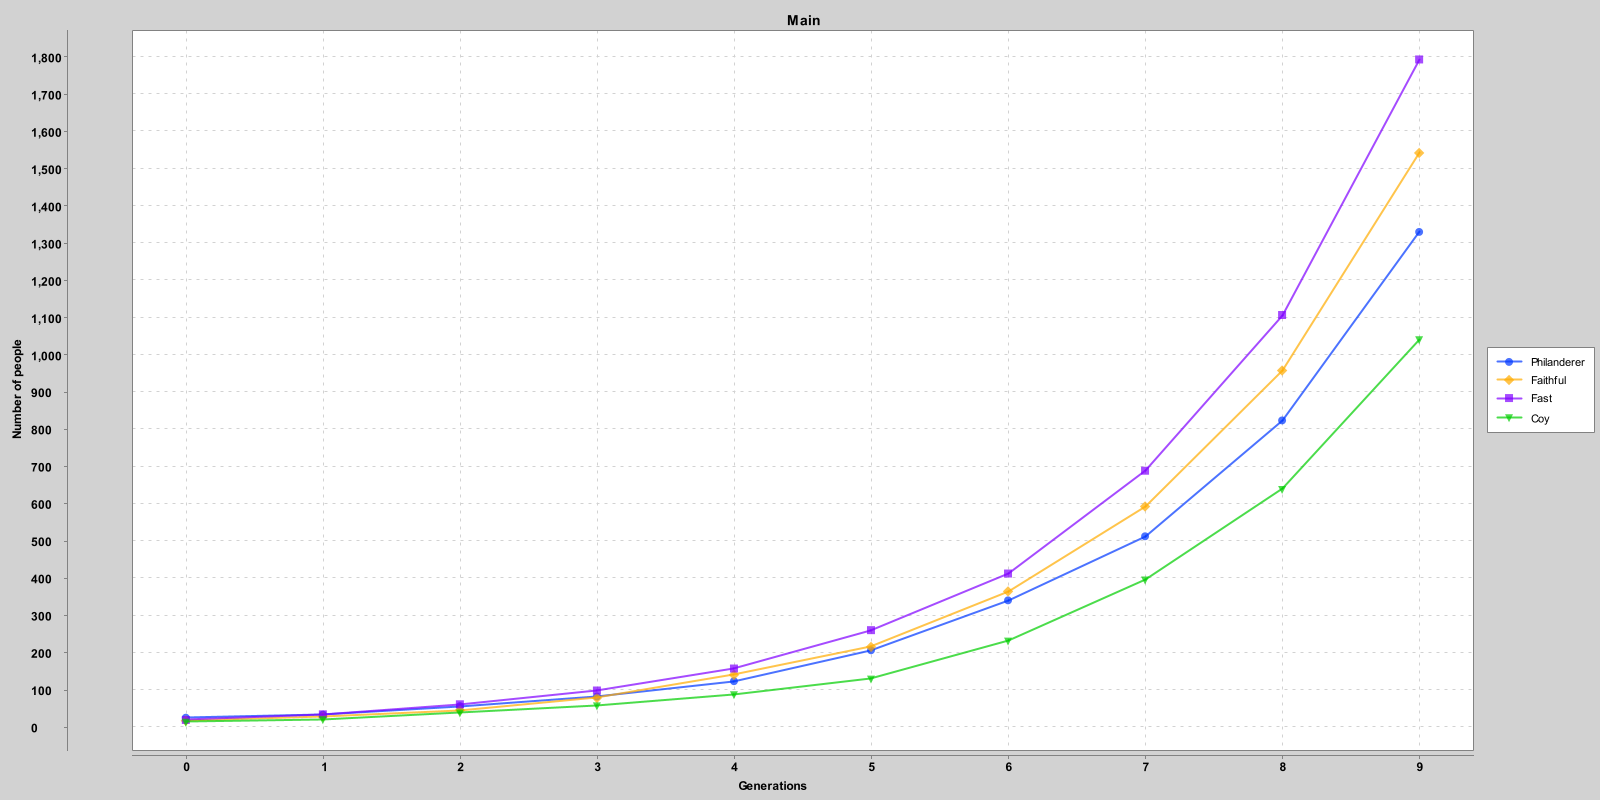
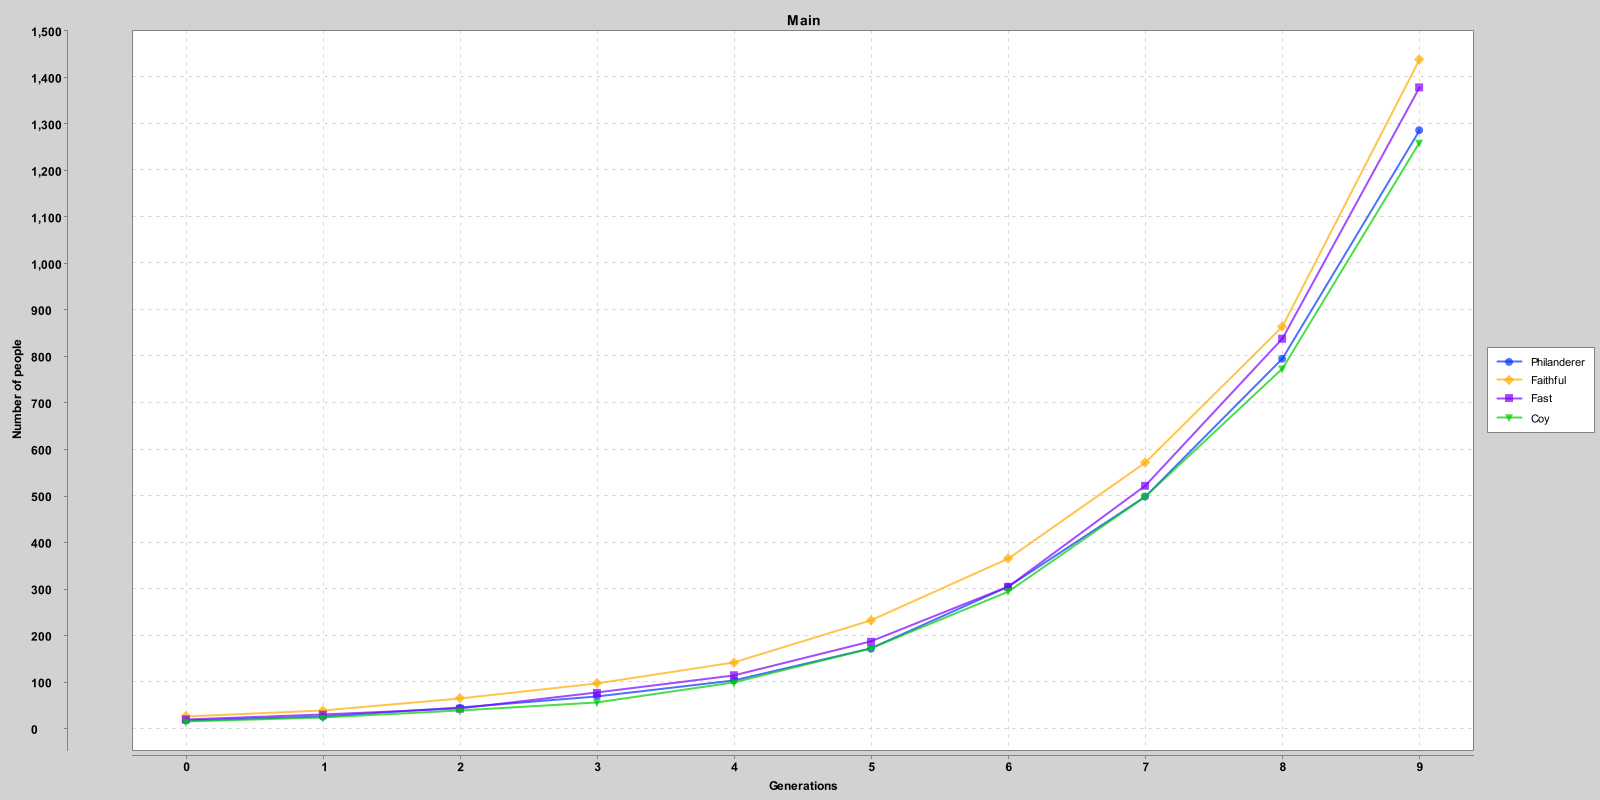
Aggiunta lista di maschi e femmine per futuro mating system

diff --git a/src/Population.java b/src/Population.java
@@ -7,15 +7,17 @@ public class Population {
     private boolean status; // attivo/disattivo
     public static volatile int[] n_individuals = new int[4];
     private volatile List<Individual> individuals; // lista di tutte le persone
+    private volatile List<Individual> Male_list;
+    private volatile List<Individual> Female_list;
     private double resources; // pizza pasta maccaroni
     public int iterazione = 0; // # generazione
     protected Settings settings; // impostazioni
     protected double initial_point;
 
     public void mating() throws InterruptedException {
-    Random radmon = new Random();
+    Random random = new Random();
         for (int i = 0; i < individuals.size()/2; i++) {
-            individuals.get(i).give_birth(individuals.get(radmon.nextInt(individuals.size()/2, individuals.size())),3,this);
+            individuals.get(i).give_birth(individuals.get(random.nextInt(individuals.size()/2, individuals.size())),3,this);
         }
         /*for (int i = individuals.size()/2+1; i < individuals.size(); i++) {
             individuals.get(i).give_birth(individuals.get(radmon.nextInt(0, individuals.size()/2)),3,this);
@@ -26,8 +28,12 @@ public class Population {
         this.settings=s;
         this.status = true;
         this.resources = s.resources_available;
-        this.individuals = new ArrayList<Individual>();
         this.initial_point = settings.initial_points;
+
+        this.individuals = new ArrayList<Individual>();
+        this.Male_list = new ArrayList<Individual>();
+        this.Female_list = new ArrayList<Individual>();
+
         this.create_people(faith,phil,coy,fast, initial_point);
     }
 
@@ -86,18 +92,24 @@ public class Population {
         // Create an array of size m where
         // every element is initialized to 0
         int arr[] = new int[m];
-        Random radmon = new Random();
+        Random random = new Random();
         // To make the sum of the final list as n
         for (int i = 0; i < target; i++)
         {
             // Increment any random element
             // from the array by 1
-            arr[(int)(radmon.nextDouble(0.0,1.0) * m)]++;
+            arr[(int)(random.nextDouble(0.0,1.0) * m)]++;
         }
         return arr;
     }
     public List<Individual> getIndividuals() {
         return individuals;
+    }
+    public List<Individual> getMale() {
+        return Male_list;
+    }
+    public List<Individual> getFemale() {
+        return Female_list;
     }
 }
 

diff --git a/src/Main.java b/src/Main.java
@@ -7,7 +7,7 @@ import java.util.Arrays;
 public class Main  {
     //ci piace scopare ===> still no bitches tho
         public static void main(String[] args) throws InterruptedException, IOException {
-            Settings sett = new Settings(0,0,1000000,3,50);
+            Settings sett = new Settings(15,20,3,120000,3,60);
             Population p = new Population(sett,10,10,10,10);//manually setting initial population
             ArrayList<int[]> trend_population = new ArrayList<>();
             ArrayList<Integer> X_time = new ArrayList<>();
@@ -28,7 +28,10 @@ public class Main  {
                 counter++;
 
             }
-            System.out.println(p.getIndividuals_n());
+            System.out.println("\n" + "Male population: " + p.getMale().size());
+            System.out.println("Female population: " + p.getFemale().size());
+            System.out.println("Total population: " + p.getIndividuals_n());
+
 
             int[] Y_Phil = Population.get_values(0,trend_population);
             int[] Y_Faith = Population.get_values(1,trend_population);
@@ -47,7 +50,7 @@ public class Main  {
         // Show it
             new SwingWrapper(chart).displayChart();
         // Save it
-            BitmapEncoder.saveBitmap(chart, "./Sample_Chart", BitmapEncoder.BitmapFormat.PNG);
+            //BitmapEncoder.saveBitmap(chart, "./Sample_Chart", BitmapEncoder.BitmapFormat.PNG);
         // or save it in high-res
             //BitmapEncoder.saveBitmapWithDPI(chart, "./Sample_Chart_300_DPI", BitmapEncoder.BitmapFormat.PNG, 300);
 

diff --git a/src/Settings.java b/src/Settings.java
@@ -4,15 +4,17 @@ public class Settings {
     //Aggiungiamo i settings a popolazione later
     //così possiamo runnare piu popolazioni con stessa impostazione
 
-    protected double cost_birth;
-    protected double cost_child;
-    protected double resources_available;
+    protected int benefit_birth;
+    protected int cost_child;
+    protected int cost_courtship;
+    protected int resources_available;
     protected int max_kids_possible;
-    protected double initial_points;
+    protected int initial_points;
 
-    public Settings(double cost_birth,double cost_child, double resources_available, int max_kids_possible,double initial_points){
-        this.cost_birth=cost_birth;
+    public Settings(int benefit_birth,int cost_child,int cost_courtship, int resources_available, int max_kids_possible,int initial_points){
+        this.benefit_birth=benefit_birth;
         this.cost_child=cost_child;
+        this.cost_courtship = cost_courtship;
         this.resources_available=resources_available;
         this.max_kids_possible=max_kids_possible;
         this.initial_points=initial_points;

diff --git a/src/Individual.java b/src/Individual.java
@@ -17,15 +17,14 @@ public abstract class Individual extends Thread{
             this.p = p;
             p.getIndividuals().add(this);
 
+            if(tag == 0 || tag == 1){
+                p.getMale().add(this);
+            }else{
+                p.getFemale().add(this);
+            }
+
             synchronized (Population.n_individuals) {
-                int a = Population.n_individuals[tag] + 1;
-
-                try {  //this try catch seems useless but it's a must for the sync to work
-                    sleep(1);
-                } catch (InterruptedException ignored) {
-                }
-
-                Population.n_individuals[tag] = a;
+                Population.n_individuals[tag]++;
             }
         }
 

diff --git a/src/Female.java b/src/Female.java
@@ -60,7 +60,7 @@ public class Female extends Individual{
 
 
     public double calculate_points(Individual dad){
-        double Tot_cost = p.settings.cost_child + p.settings.cost_birth;
+        double Tot_cost = p.settings.cost_child + p.settings.benefit_birth;
         double resources = (p.settings.resources_available)/p.getIndividuals_n();
 
 
